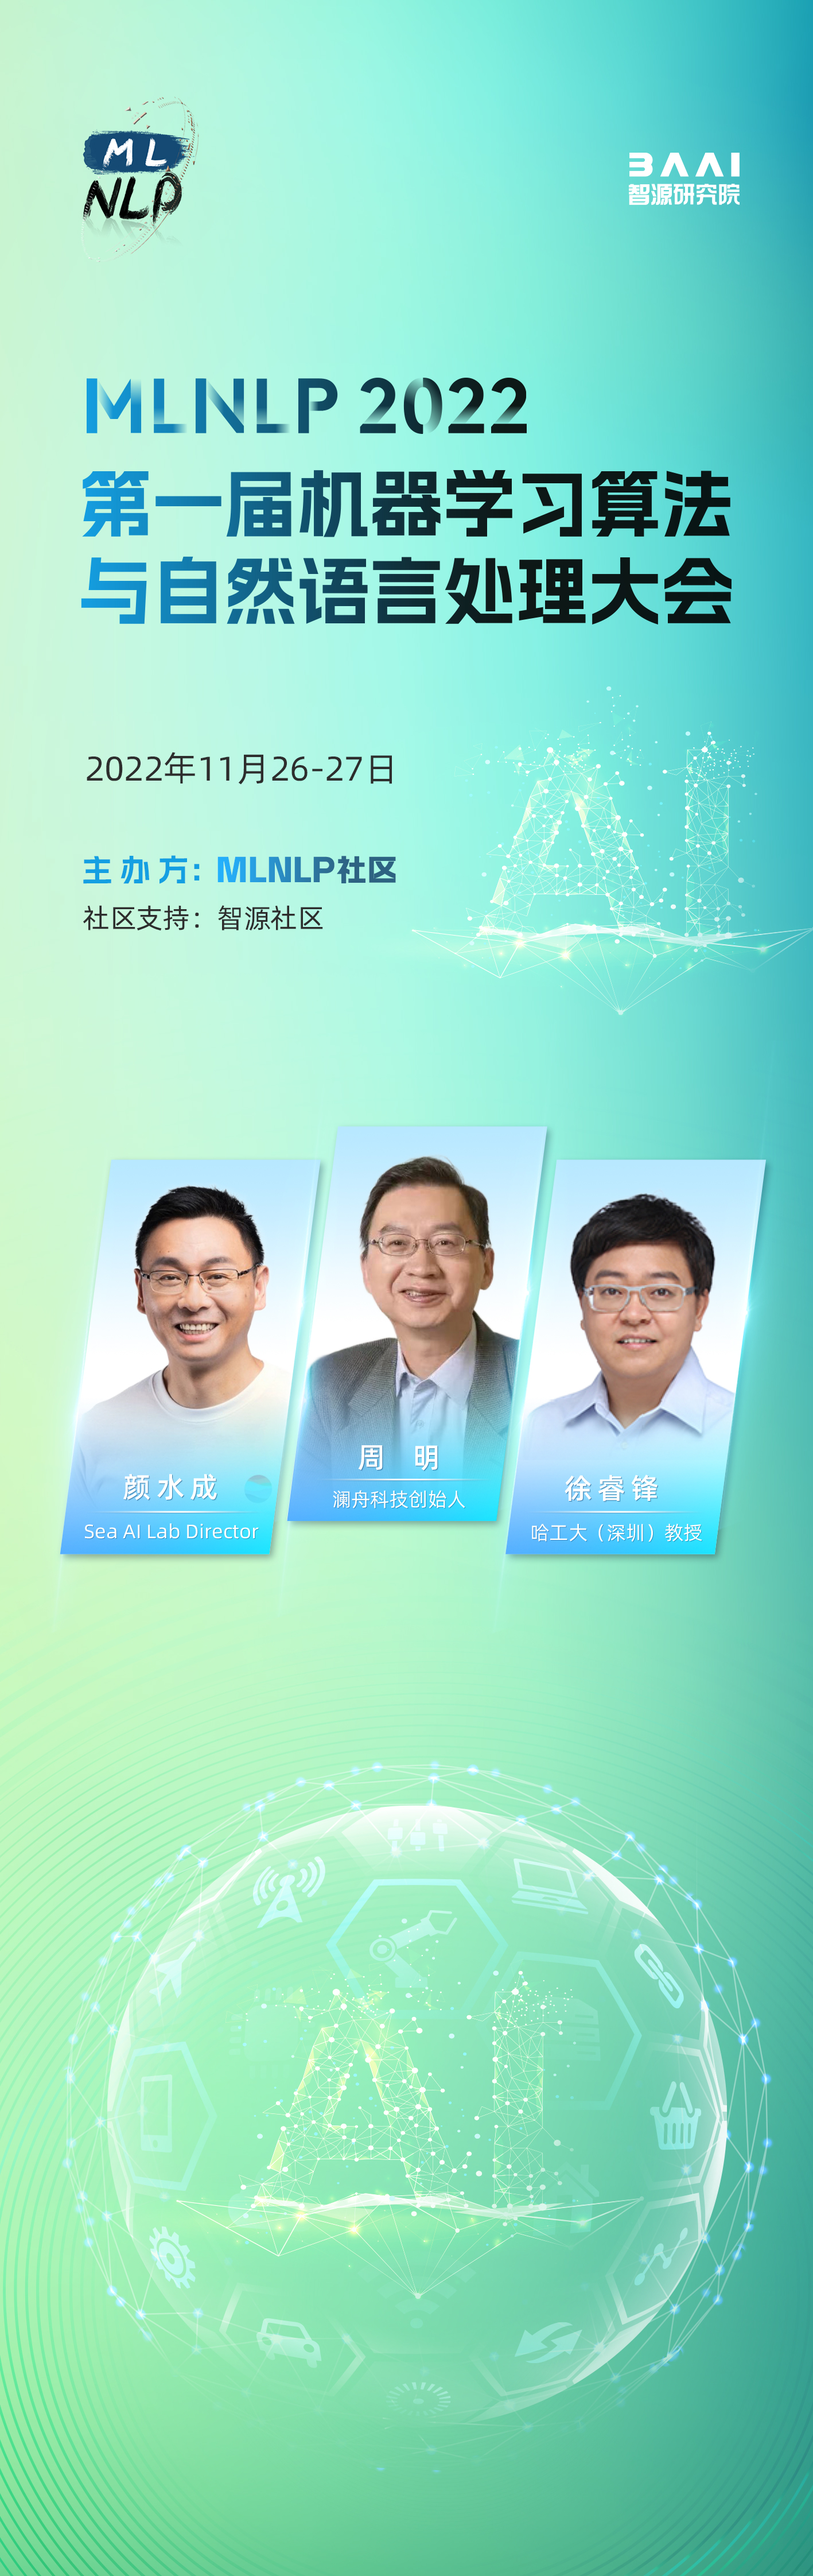
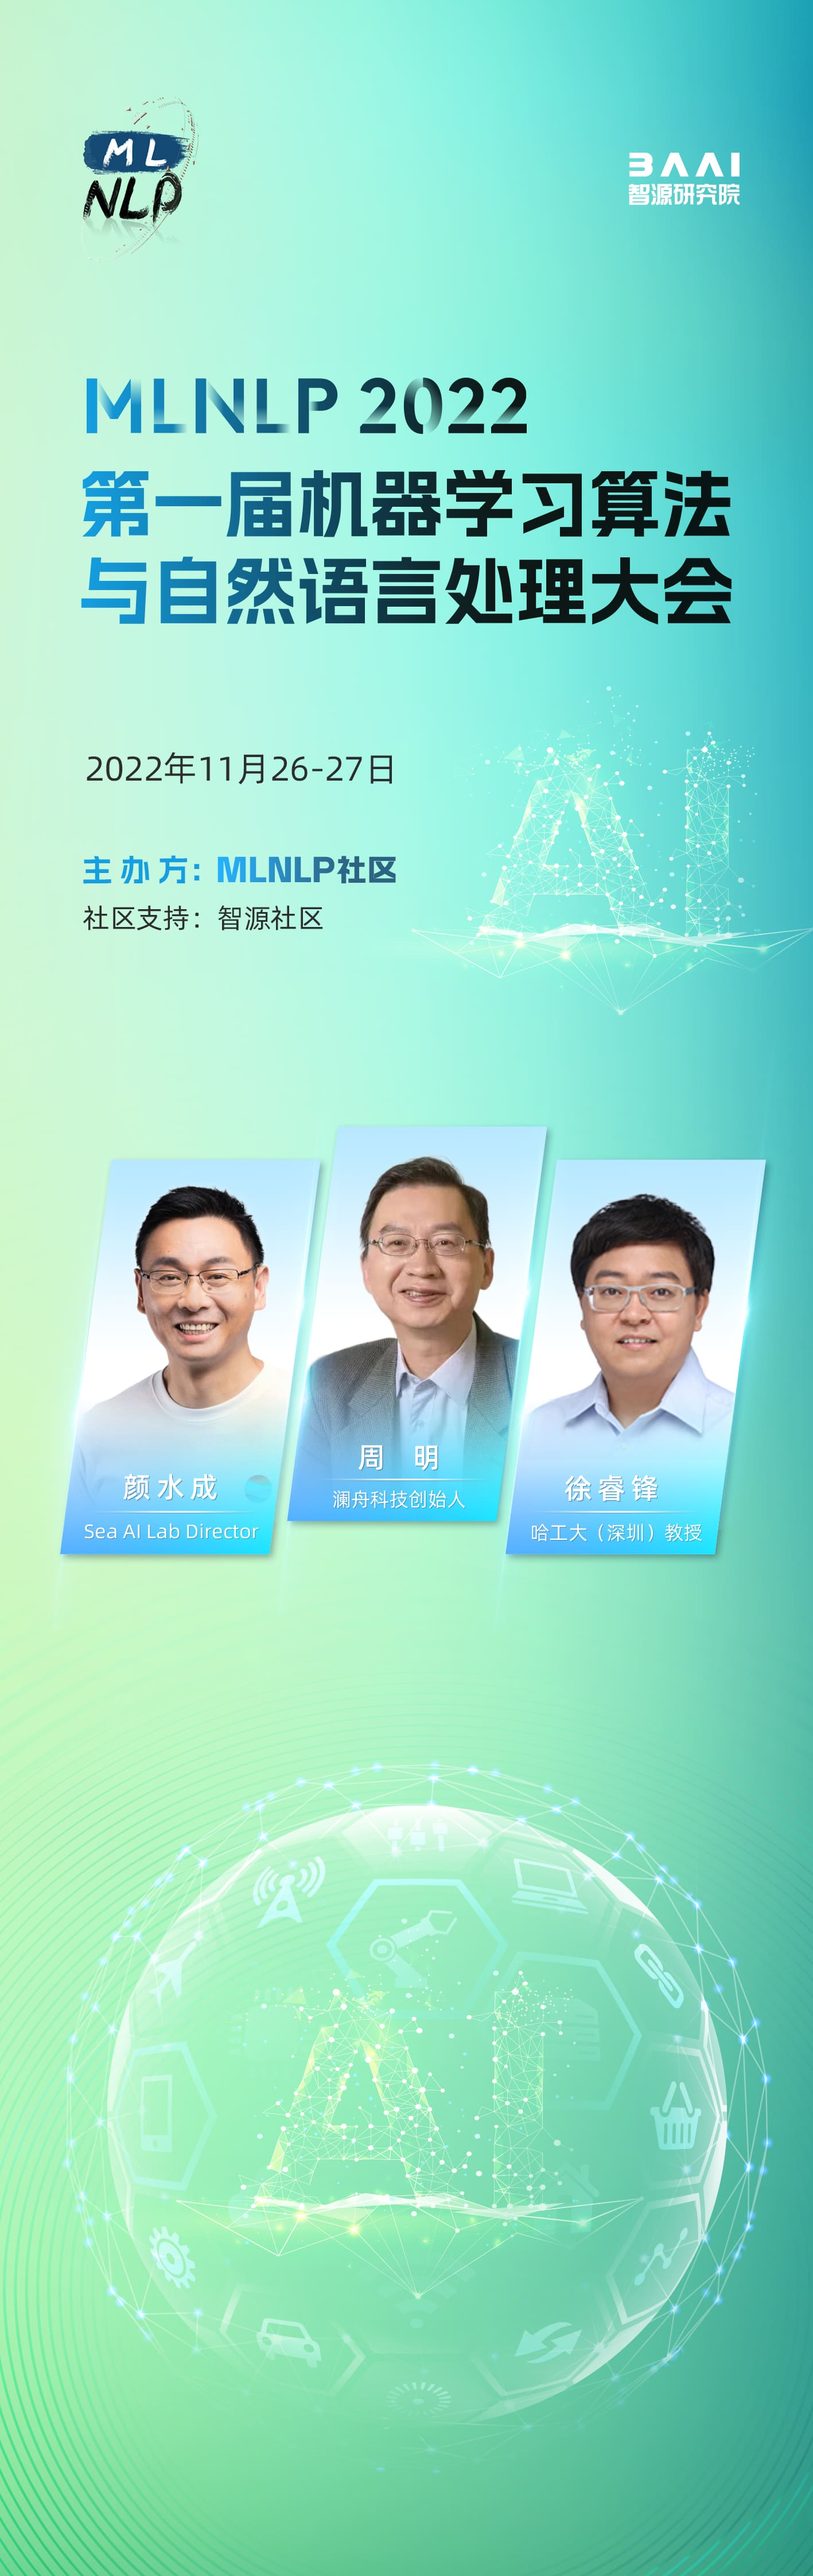
remove unused images; compress image to accelrate the loading

diff --git a/index.html b/index.html
@@ -450,7 +450,7 @@
                                     </div>
                                     <div class="member-info">
                                         <h4><a href="https://chenchongthu.github.io" target="_blank">陈冲</a></h4>
-                                        <span>华为</span>
+                                        <span>华为云</span>
                                     </div>
                                 </div>
                             </div>
